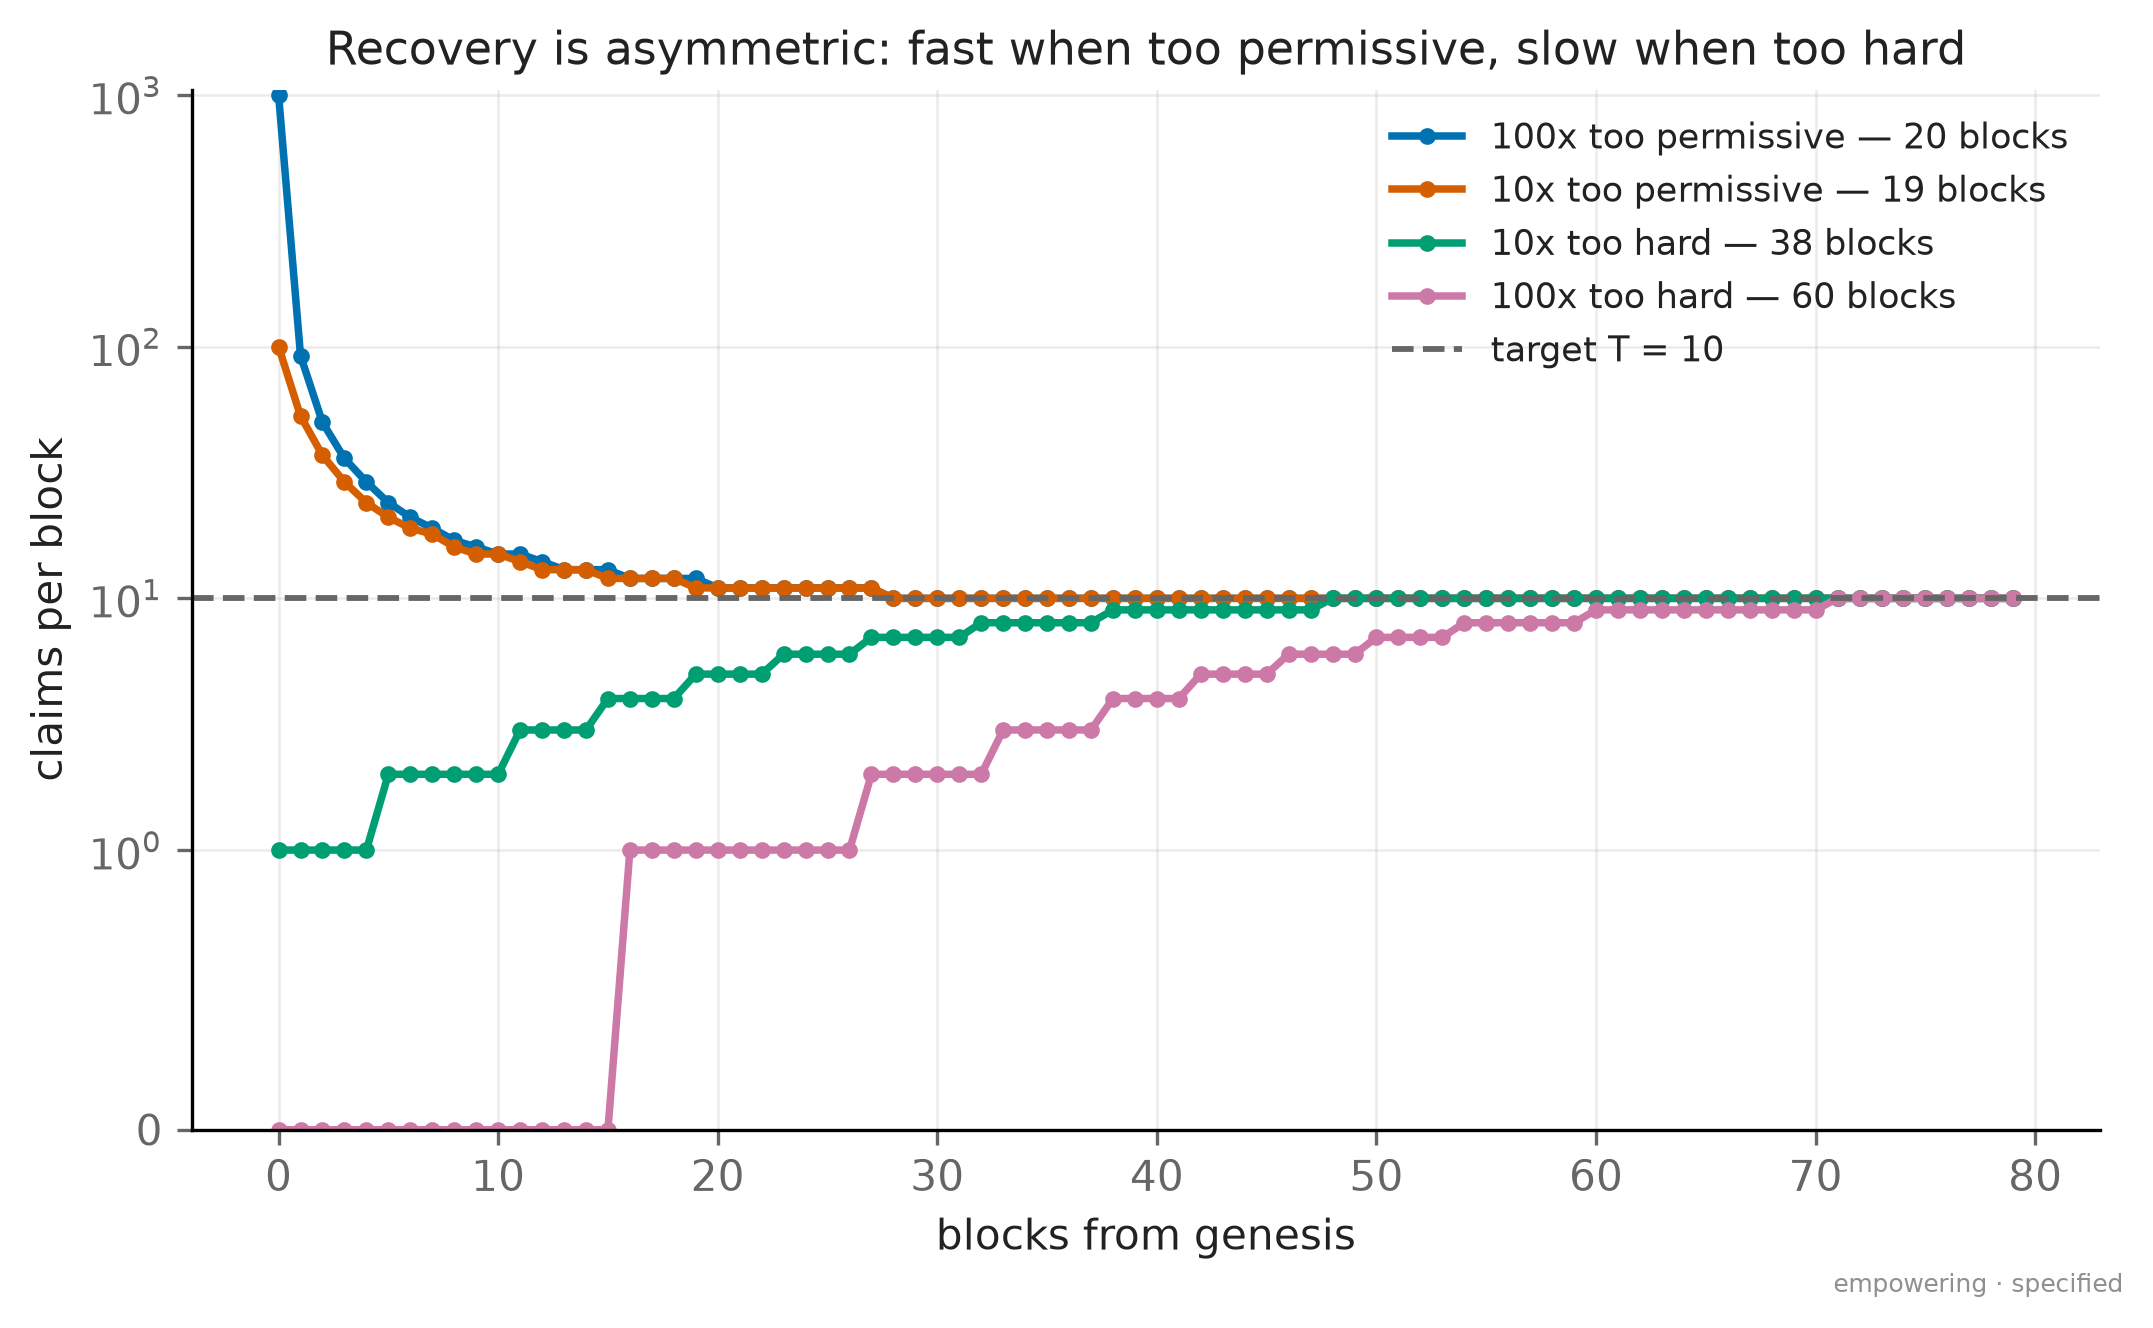
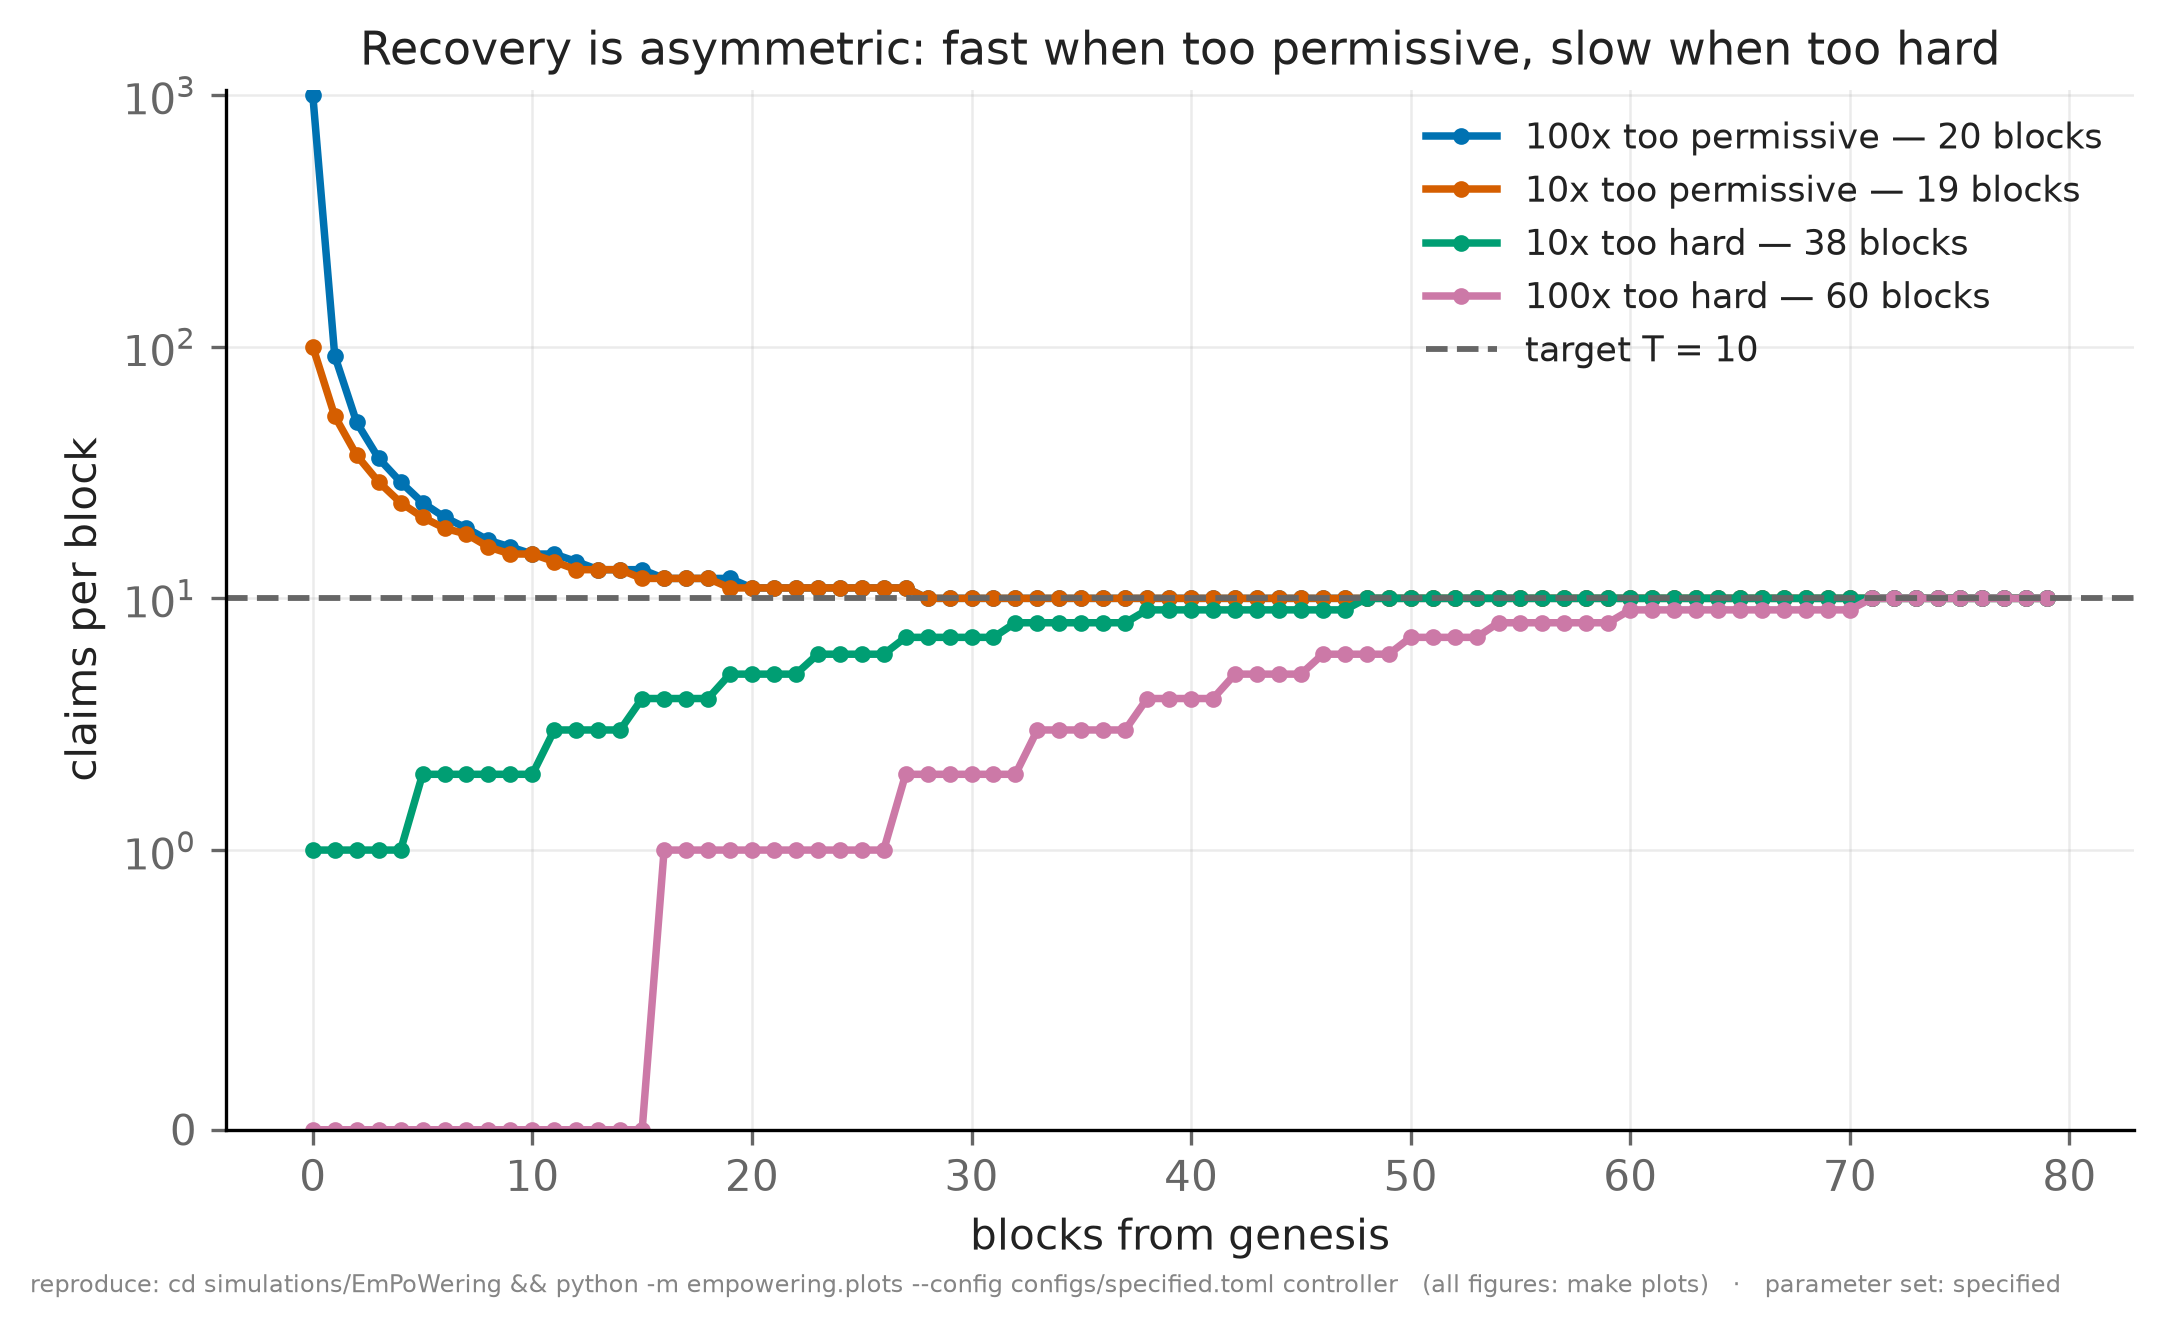
EmPoWering: every figure carries the command that regenerates it
The footer said "empowering · specified", which names the parameter set but not
how to get the picture back. Each figure now carries the working command:

  reproduce: cd simulations/EmPoWering && python -m empowering.plots
             --config configs/specified.toml pool
             (all figures: make plots)  ·  parameter set: specified

Built from the dispatch key the CLI actually accepts rather than a string written
alongside it, so a renamed or re-registered figure takes its caption with it and
cannot advertise a command that does not run. The config is threaded from the
invocation too, so rendering a different parameter set says so.

Verified by running all ten keys the captions name.

Also moves the fee-range annotation off the data lines it had drifted onto.

diff --git a/simulations/EmPoWering/src/empowering/plots.py b/simulations/EmPoWering/src/empowering/plots.py
@@ -40,9 +40,22 @@ def _style():
     })
 
 
-def _save(fig, out: Path, stem: str, provenance: str) -> Path:
+# Set by main() so the caption names the config actually used, not an assumed one.
+_CONFIG = "configs/specified.toml"
+
+
+def _save(fig, out: Path, stem: str, p: Params, key: str) -> Path:
+    """Save at 300 dpi with a caption saying exactly how to regenerate this figure.
+
+    The caption is built from the dispatch key the CLI accepts, so it cannot name a
+    command that does not work: if a figure is renamed or re-registered, the caption
+    moves with it.
+    """
     out.mkdir(parents=True, exist_ok=True)
-    fig.text(0.99, 0.005, provenance, fontsize=6, alpha=0.5, va="bottom", ha="right")
+    caption = (f"reproduce: cd simulations/EmPoWering && "
+               f"python -m empowering.plots --config {_CONFIG} {key}"
+               f"   (all figures: make plots)   ·   parameter set: {p.name}")
+    fig.text(0.005, 0.005, caption, fontsize=5.8, alpha=0.55, va="bottom", ha="left")
     path = out / f"{stem}.png"
     fig.savefig(path)
     import matplotlib.pyplot as plt
@@ -94,7 +107,7 @@ def pool_trajectory(p: Params, out: Path, horizon_years: float = 40.0) -> Path:
                   f"{horizon_years:.0f} years, never through the floor")
     ax2.legend(loc="upper right")
     fig.tight_layout()
-    return _save(fig, out, "01_pool_trajectory", f"empowering · {p.name}")
+    return _save(fig, out, "01_pool_trajectory", p, "pool")
 
 
 def claim_share_vs_traffic(p: Params, out: Path) -> Path:
@@ -137,7 +150,7 @@ def claim_share_vs_traffic(p: Params, out: Path) -> Path:
                  f"is {ceiling:.1f}%")
     ax.legend(loc="lower left")
     fig.tight_layout()
-    return _save(fig, out, "02_claim_share_vs_traffic", f"empowering · {p.name}")
+    return _save(fig, out, "02_claim_share_vs_traffic", p, "share")
 
 
 def beta_relation(p: Params, out: Path) -> Path:
@@ -185,7 +198,7 @@ def beta_relation(p: Params, out: Path) -> Path:
                   "\n(log axis, so proportionality reads as a shift, not a straight line)")
     ax2.legend(loc="lower right", title="traffic", title_fontsize=8)
     fig.tight_layout()
-    return _save(fig, out, "03_beta_relation", f"empowering · {p.name}")
+    return _save(fig, out, "03_beta_relation", p, "beta")
 
 
 def endowment_ramp(p: Params, out: Path) -> Path:
@@ -220,7 +233,7 @@ def endowment_ramp(p: Params, out: Path) -> Path:
                   f"(the specified $R_0$ is {ratio:,.0f}x the 5-year minimum)")
     ax2.legend(loc="upper right")
     fig.tight_layout()
-    return _save(fig, out, "04_endowment_ramp", f"empowering · {p.name}")
+    return _save(fig, out, "04_endowment_ramp", p, "ramp")
 
 
 def reward_controller(p: Params, out: Path) -> Path:
@@ -252,7 +265,7 @@ def reward_controller(p: Params, out: Path) -> Path:
            title="Recovery is asymmetric: fast when too permissive, slow when too hard")
     ax.legend(loc="upper right")
     fig.tight_layout()
-    return _save(fig, out, "05_reward_controller", f"empowering · {p.name}")
+    return _save(fig, out, "05_reward_controller", p, "controller")
 
 
 ALL = {"pool": pool_trajectory, "share": claim_share_vs_traffic, "beta": beta_relation,
@@ -269,6 +282,8 @@ def main(argv: list[str] | None = None) -> int:
     ap.add_argument("--out", default="figures")
     ap.add_argument("which", nargs="?", choices=sorted(ALL), help="one figure (default: all)")
     a = ap.parse_args(argv)
+    global _CONFIG
+    _CONFIG = a.config              # so the caption names the config actually rendered
     p = params.load(a.config)
     out = Path(a.out)
     todo = {a.which: ALL[a.which]} if a.which else ALL
@@ -331,7 +346,7 @@ def operating_envelope(p: Params, out: Path) -> Path:
            ylabel=r"$\beta_{PoW}$  (% of fees to the pool)", ylim=(0.5, 33),
            title="Operating envelope: the corridor between self-funding and subordination")
     fig.tight_layout()
-    return _save(fig, out, "06_operating_envelope", f"empowering · {p.name}")
+    return _save(fig, out, "06_operating_envelope", p, "envelope")
 
 
 def drain_margin(p: Params, out: Path) -> Path:
@@ -375,7 +390,7 @@ def drain_margin(p: Params, out: Path) -> Path:
            ylabel=r"$1/\rho$   (epochs of reserve; $\rho$ = 1/this)",
            title="Within-epoch drain: the specified point sits just inside the reachable side")
     fig.tight_layout()
-    return _save(fig, out, "07_drain_margin", f"empowering · {p.name}")
+    return _save(fig, out, "07_drain_margin", p, "drain")
 
 
 def blend_envelope(p: Params, out: Path) -> Path:
@@ -419,7 +434,7 @@ def blend_envelope(p: Params, out: Path) -> Path:
                  "the board at $2^{21}$")
     ax.legend(loc="lower right")
     fig.tight_layout()
-    return _save(fig, out, "08_blend_envelope", f"empowering · {p.name}")
+    return _save(fig, out, "08_blend_envelope", p, "blendmap")
 
 
 ALL.update({"envelope": operating_envelope, "drain": drain_margin, "blendmap": blend_envelope})
@@ -466,7 +481,7 @@ def sampled_arrivals(p: Params, out: Path) -> Path:
             title="Per epoch: the retarget has corrected almost all of it")
     ax2.legend(loc="lower right", fontsize=7.5)
     fig.tight_layout()
-    return _save(fig, out, "09_sampled_arrivals", f"empowering · {p.name}")
+    return _save(fig, out, "09_sampled_arrivals", p, "sampled")
 
 
 ALL["sampled"] = sampled_arrivals
@@ -521,11 +536,13 @@ def fee_range(p: Params, out: Path) -> Path:
             title="The absolute window slides with the market;\nthe verdict above does not")
     ax2.legend(loc="upper left")
     ax2.annotate(f"at rest ({p.price_resting}): break-even\nis {be * p.phi * u:,.0f} lepta/block",
-                 xy=(p.price_resting, be * p.phi * u), xytext=(26, 30),
-                 textcoords="offset points", fontsize=8, color=MUTED,
-                 arrowprops=dict(arrowstyle="->", color=MUTED, lw=1))
+                 xy=(p.price_resting, be * p.phi * u), xycoords="data",
+                 xytext=(0.42, 0.10), textcoords="axes fraction",
+                 fontsize=8, color=MUTED,
+                 arrowprops=dict(arrowstyle="->", color=MUTED, lw=1,
+                                 connectionstyle="arc3,rad=-0.2"))
     fig.tight_layout()
-    return _save(fig, out, "10_fee_range", f"empowering · {p.name}")
+    return _save(fig, out, "10_fee_range", p, "fees")
 
 
 ALL["fees"] = fee_range
